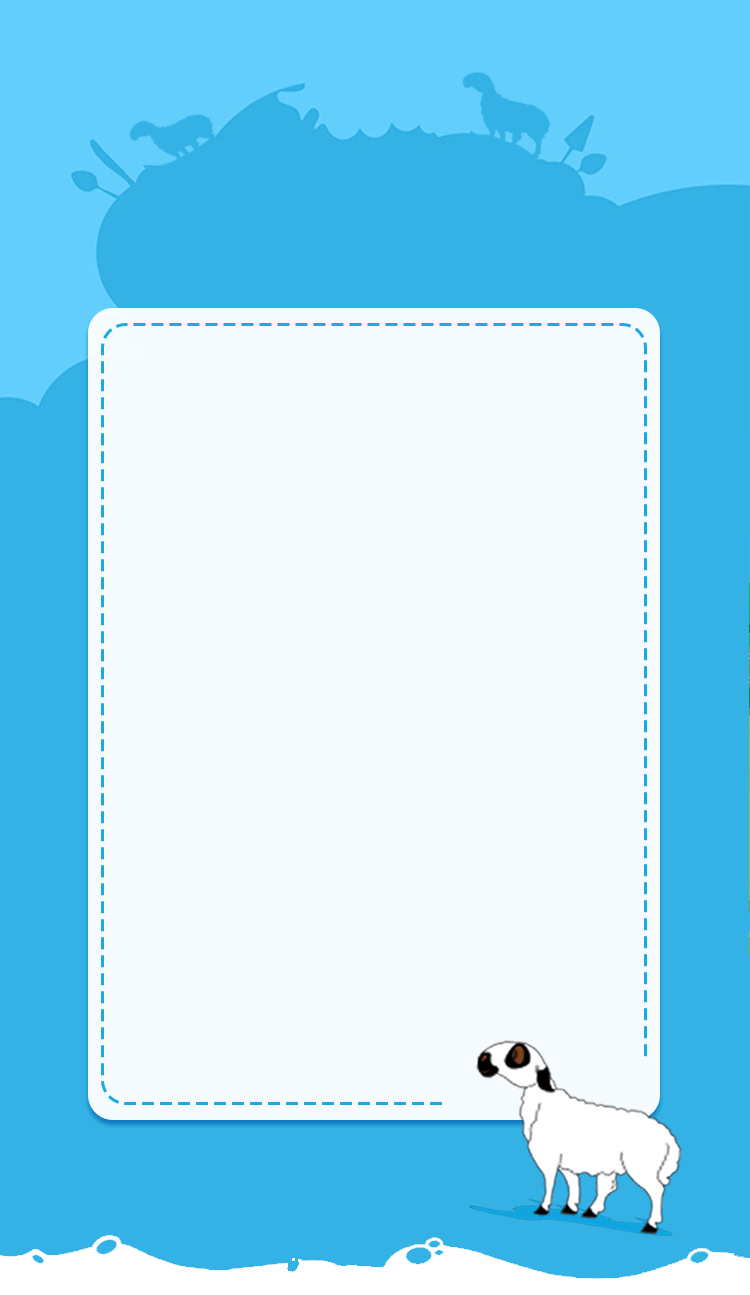
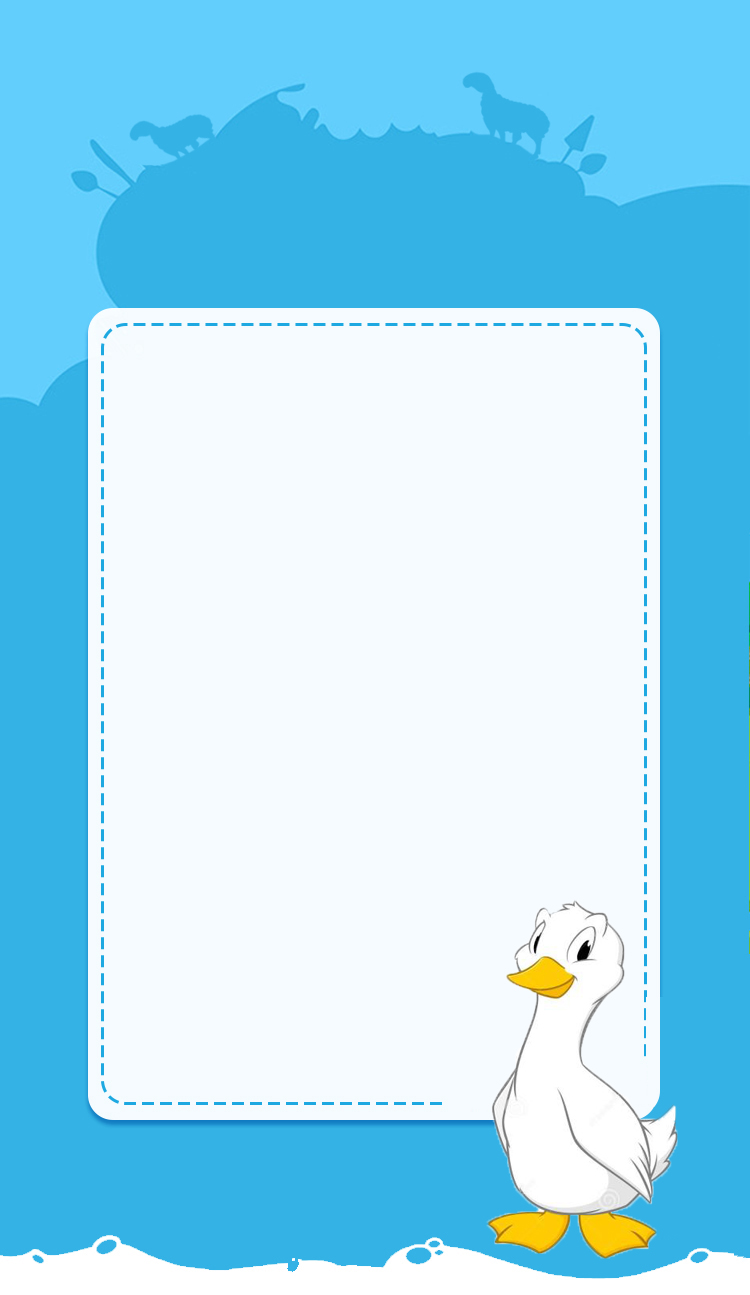
鹅

diff --git a/application/wap/view/Index/zhidao.html b/application/wap/view/Index/zhidao.html
@@ -1,4 +1,4 @@
-<!DOCTYPE html>
+<!DOCTYPE html>
 <html>
 
 	<head>
@@ -30,14 +30,14 @@
 			</div>
 			<!--新手指导 floor1-->
 			<div class="floor1">
-				<h2>财富牧场怎么玩？</h2>
+				<h2>趣味牧场怎么玩？</h2>
 				<div class="guide1">
-					<p>本项目是蒙蓝科技，蒙高丽亚和牧区资源合作商会联合推出的线上养羊项目，您
-						<span class="bold">关注“财富牧场平台”</span> 微信公众号，在线上
+					<p>本项目是汇谷科技，趣味农场联合推出的线上养殖项目，您
+						<span class="bold">关注“121797873”</span> 微信公众号，在线上
 						<span class="bold">购买</span> 一只属于您自己的
-						<span class=" bold">小羊羔</span>， 羊羔由我们的牧民精心照料，在大草原上自由成长。
+						<span class=" bold">大白鹅</span>，鹅由我们的牧民精心照料，在趣味生态农场里自由成长。
 						<span class="bold">
-							羊只出栏后</span>，您可选择<span class="bold">收回您的本金</span>和<span class="bold">养殖回报</span>，也可以申请<span class="bold">兑换原生态羔羊肉礼盒</span>（15kg左右白条羊）。</p>
+							鹅只出栏后</span>，您可选择<span class="bold">收回您的本金</span>和<span class="bold">养殖回报</span>，也可以申请<span class="bold">兑换原生态鹅肉礼盒</span>（3.5kg左右白条鹅）。</p>
 				</div>
 			</div>
 			<!--连接上下 的向下箭头-->
@@ -47,7 +47,7 @@
 				<div class="grude-in guide_top_02"></div>
 				<div class="guide_middle_02">
 					<div class="guide_detail_01">
-						<h6>财富牧场</h6>
+						<h6>趣味农场</h6>
 						<p>有乐趣</p>
 						<p>有情怀&nbsp;&nbsp;有前景</p>
 						<p>有保障&nbsp;&nbsp;有回报&nbsp;&nbsp;......</p>
@@ -67,8 +67,8 @@
 						<div class="guide_details">
 							<div class="trophy"></div>
 							<div class="guide_con">
-								<p>为了保证您的收益 ,财富牧场承诺羊群到期后 ,我们将100%回购。如果<span class="">羊只出栏期间发生任何意外死亡，损失均由财富牧场承担。</span></p>
-								<p>您购买的羊只由<span class=" bold">牧区资源合作商会</span>联合蒙高丽亚进行全方位权益保障。</p>
+								<p>为了保证您的收益 ,趣味农场承诺鹅群到期后,我们将100%回购。如果<span class="">鹅只出栏期间发生任何意外死亡，损失均由趣味牧场承担。</span></p>
+								<p>您购买的鹅只由<span class=" bold">趣味农场的养殖人员</span>联合太平洋财产保险全方位权益保障。</p>
 								<p>每只羊都有自己<span class=" bold">独立的耳标</span>，安全卫生，真实可靠。</p>
 							</div>
 						</div>
@@ -86,13 +86,13 @@
 						<h6>快速成为牧主大大</h6>
 						<div class="guide_details">
 							<p class=" bold procedure">注册财富牧场</p>
-							<p class="procedure_con">新手送200元现金红包,买羊可提现。</p>
+							<p class="procedure_con">新手送1元现金红包,买鹅可提现。</p>
 							<p class=" bold procedure">实名认证</p>
 							<p class="procedure_con">确认身份，保证信息安全</p>
 							<p class=" bold procedure">添加银行卡</p>
 							<p class="procedure_con">仅本人同名银行卡，保证资金流向安全。</p>
 							<p class=" bold procedure">快来当牧场主</p>
-							<p class="procedure_con">年养殖回报15%-18%，3种羊群可供选择。</p>
+							<p class="procedure_con">年养殖回报15%-18%，3种鹅群可供选择。</p>
 						</div>
 					</div>
 				</div>
@@ -107,8 +107,8 @@
 					<div class="guide_detail_05">
 						<h6>欢迎联系我们</h6>
 						<div class="mascot"></div>
-						<p class="contact_way">客服QQ：1225653723</p>
-						<p class="contact_way">官方电话：400-800-8344</p>
+						<p class="contact_way">客服QQ：121797873</p>
+						<p class="contact_way">官方电话：13613820359</p>
 					</div>
 				</div>
 			</div>

diff --git a/application/wap/view/Index/index.html b/application/wap/view/Index/index.html
@@ -1,4 +1,4 @@
-<!DOCTYPE html>
+<!DOCTYPE html>
 
 <html>
 
@@ -278,7 +278,7 @@
 
 							<a href="{:url('Index/orlist')}" class="icon0"><span class="icon2"></span></a>
 
-							<a href="{:url('Index/orlist')}">购买羊只</a>
+							<a href="{:url('Index/orlist')}">购买数量</a>
 
 						</div>
 
@@ -332,7 +332,7 @@
 
 			{if condition="$vo.classify eq 1"}
 
-				<!--常规羊群-->
+				<!--大白鹅-->
 
 				<a href="{:url('Order/info',['id'=>$vo.id]);}" class="shop1">
 
